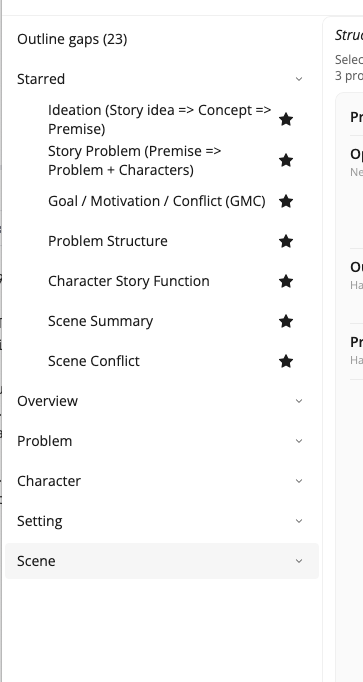
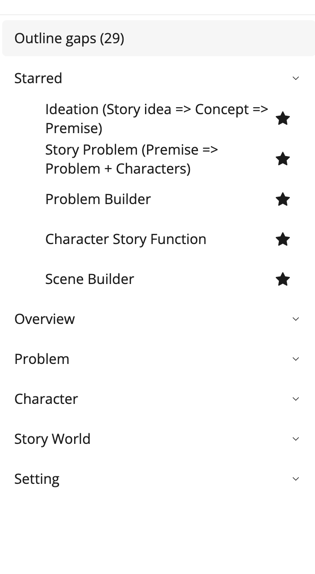
sync: update from StoryCAD dev (b7331b71ad3246fb5381d2eac51ccdabbe32ad4d)

diff --git a/docs/StoryCAD Collaborator/Tutorial/An_Example_Session.md b/docs/StoryCAD Collaborator/Tutorial/An_Example_Session.md
@@ -46,36 +46,36 @@ Return to StoryCAD and open the Overview. Anything you accepted is already there
 
 **Craft check:** Does the premise name someone who wants something, and what stands in their way? Danger Calls has both: the detectives need to know when and where Lacas will deal, and his pager network is what stops them. See [Story Idea, Concept, and Premise](../../Writing%20with%20StoryCAD/Story_Idea_Concept_and_Premise.html).
 
-## 3. GMC on a problem
+## 3. Problem Builder on a problem
 
 Danger Calls carries three problems. **How will Leonard and Tony get past Charlie's tech?** is the useful one to work on: Leonard Kraskin against Charlie Lacas, over whether the detectives can read his pager traffic before the next deal.
 
-1. Run **Goal / Motivation / Conflict (GMC)** on that problem.  
+Set **Problem Category**, **Protagonist**, and **Antagonist** on that Problem first. Problem Builder reads all three, and it stops before it starts if the category is blank.
+
+1. Run **Problem Builder** on that problem.  
 2. If Collaborator needs a character it opens a picker. Choose an existing one, or **Create a new element** if the person you want is not there yet. Cancelling the picker stops the run.  
 3. Read the label under each field name.
 
-GMC fills eight fields at once, the goal, motivation, and conflict for both sides of the problem plus its type and premise. On the sample every one of them already has text, so all eight stop and ask. That is the slow path on purpose: eight replacements at once is exactly when you want to read before accepting.
+Problem Builder takes four elements at once, which you can see on the **Selected** line: the Problem, the Overview, and both sides of the cast. It fills the problem's spine and chooses a beat sheet in the same pass, so **StructureBeats** arrives alongside Premise and ProblemType rather than in a second run.
 
-![The GMC run on that problem: eight proposals headed 8: 0 free, 8 need review, covering both the protagonist's and the antagonist's goal, motivation, and conflict](../../media/Collaborator-Session-GMC.png)
+On the sample it proposes nine updates and eight of them already have your text, so those eight stop and ask. That is the slow path on purpose: eight replacements at once is exactly when you want to read before accepting.
+
+![The Problem Builder run: nine proposals headed 9: 1 free, 8 need review, covering Description, Method, Notes, Premise, ProblemType and the StructureBeats beat sheet](../../media/Collaborator-Session-ProblemBuilder.png)
 
 4. Use **Review Each** on at least one row. Read **Yours** against **Proposed**, then Accept or Skip deliberately.  
 5. Use **Accept Free Remaining** for anything left that does not need review.
 
-## 4. Check it landed
-
-Open that Problem in StoryCAD and look at the **Antagonist** tab. Whatever you accepted for Charlie Lacas is already sitting in Goal, Motivation, and Conflict.
-
-![The Problem form in StoryCAD, Antagonist tab, showing Charlie Lacas with the accepted Goal, Motivation, and Conflict text](../../media/Collaborator-Session-Problem.png)
+Return to StoryCAD and open that Problem. Anything you accepted is already sitting in its fields, and the beat sheet is on the **Structure** tab.
 
 **Craft check:** Can you state what the protagonist wants, why, and what opposes them? Same for the antagonist? See [Defining Problems](../../Writing%20with%20StoryCAD/Defining_Problems.html).
 
-## 5. Optional next beat
+## 4. Optional next beat
 
-If you have time, run one more. **Flaw and Backstory** on Charlie Lacas is a good second look: an antagonist is easier to write when you know what made him, and the workflow proposes the wound and the history together. **Scene Conflict** on one of the story's scenes works too, and behaves differently from the Overview workflows.
+If you have time, run one more. **Flaw and Backstory** on Charlie Lacas is a good second look: an antagonist is easier to write when you know what made him, and the workflow proposes the wound and the history together. **Scene Builder** on one of the story's scenes works too, and behaves differently from the Overview workflows.
 
 One more workflow is enough for a first session.
 
-## 6. Close the loop
+## 5. Close the loop
 
 **Exit** Collaborator. Everything you accepted is already in your outline, and anything you skipped never touched it.
 

diff --git a/docs/StoryCAD Collaborator/Tutorial/A_Path_to_Try.md b/docs/StoryCAD Collaborator/Tutorial/A_Path_to_Try.md
@@ -10,13 +10,13 @@ has_toc: false
 
 # A Path to Try
 
-Collaborator has more than twenty workflows. You do not need all of them on day one. The path below matches the craft order in [Writing with StoryCAD](../../Writing%20with%20StoryCAD/Writing_with_StoryCAD.html): idea and premise first, then problem and character force, then structure and scenes.
+Collaborator has thirteen workflows. You do not need all of them on day one. The path below matches the craft order in [Writing with StoryCAD](../../Writing%20with%20StoryCAD/Writing_with_StoryCAD.html): idea and premise first, then problem and character force, then structure and scenes.
 
 You can skip steps, but this order usually wastes less time.
 
 ## The starred band is a head start
 
-Collaborator starts with seven of these workflows starred, so they sit at the top of the workflow list before you touch anything: **Premise**, **Story Problem**, **GMC**, **Problem Structure**, **Character Story Function**, **Scene Summary**, and **Scene Conflict**. That is the spine below, minus the optional steps.
+Collaborator starts with five of these workflows starred, so they sit at the top of the workflow list before you touch anything: **Premise**, **Story Problem**, **Problem Builder**, **Character Story Function**, and **Scene Builder**. That is one per stage of the spine below, so the top of the list reads as a next step rather than a catalog.
 
 Treat it as a starting point, not a rule. As you learn which workflows your writing turns on, star those and unstar the rest. [Opening Collaborator](../Opening_Collaborator.html) shows how. Everything not starred is still there, filed under its story element.
 
@@ -33,27 +33,23 @@ Treat it as a starting point, not a rule. As you learn which workflows your writ
    Turn the premise into a main problem with protagonist and antagonist shells.  
    Craft: [Defining Problems](../../Writing%20with%20StoryCAD/Defining_Problems.html)
 
-4. **Goal / Motivation / Conflict (GMC)**  
-   Opposing goals and forces on that problem.  
-   Craft: [Defining Problems](../../Writing%20with%20StoryCAD/Defining_Problems.html) (GMC)
+4. **Problem Builder**  
+   Goal, motivation, and conflict for both sides of that problem, then a beat sheet that fits it. Scenes and Problems that sit on no beat sheet yet fill its empty beats, and scene stubs fill the rest. Set Problem Category, Protagonist, and Antagonist on the Problem first: Problem Builder reads all three, and a blank category stops the run before it starts.  
+   Craft: [Defining Problems](../../Writing%20with%20StoryCAD/Defining_Problems.html) (GMC), [Plotting with StoryCAD](../../Writing%20with%20StoryCAD/Plotting_with_StoryCAD.html)
 
 5. **Inner and Outer Problems**  
    Outer want versus inner need.  
    Craft: outer and inner problems in the same Defining Problems material
 
-6. **Problem Structure**  
-   Beat sheet / shape for the story problem.  
-   Craft: [Plotting with StoryCAD](../../Writing%20with%20StoryCAD/Plotting_with_StoryCAD.html)
-
-7. **One character path**  
+6. **One character path**  
    For example **Character Story Function**, then **Flaw and Backstory**.  
    Craft: [Defining Characters](../../Writing%20with%20StoryCAD/Defining_Characters.html)
 
-8. **Scenes**  
-   Prefer **both** Scene Summary and Scene Conflict when you can. If you only run one, start with **Scene Summary** (what happens still carries conflict).  
+7. **Scene Builder**  
+   Sketch, type, cast, development, conflict, and sequel for one scene. Select the scene first: Scene Builder fills a scene you already made, and does not run on the story problem itself.  
    Craft: [Defining Scenes](../../Writing%20with%20StoryCAD/Defining_Scenes.html), [Plotting in Scenes](../../Writing%20with%20StoryCAD/Plotting_in_Scenes.html)
 
-![The workflow pane with the seven starred workflows at the top, in running order](../../media/Collaborator-Workflow-Pane.png)
+![The workflow pane with the starred workflows at the top, in running order](../../media/Collaborator-Workflow-Pane.png)
 
 ## Teaching tip
 

diff --git a/docs/StoryCAD Collaborator/Workflows_and_Writing_Craft.md b/docs/StoryCAD Collaborator/Workflows_and_Writing_Craft.md
@@ -26,9 +26,9 @@ StoryCAD’s manual already teaches the craft spine: idea and premise, problems,
 | Craft question | Learn more in StoryCAD | Typical Collaborator workflow(s) |
 |----------------|------------------------|----------------------------------|
 | What’s my idea, concept, or premise? | [Story Idea, Concept, and Premise](../Writing%20with%20StoryCAD/Story_Idea_Concept_and_Premise.html) | Premise; Story Form (genre and story type) |
-| What’s the main story problem? | [Defining Problems](../Writing%20with%20StoryCAD/Defining_Problems.html), [Problem and Character Development](../Writing%20with%20StoryCAD/Problem_and_Character_Development.html) | Story Problem; Goal / Motivation / Conflict (GMC) |
+| What’s the main story problem? | [Defining Problems](../Writing%20with%20StoryCAD/Defining_Problems.html), [Problem and Character Development](../Writing%20with%20StoryCAD/Problem_and_Character_Development.html) | Story Problem; Problem Builder |
 | Outer want vs inner need? | [Defining Problems](../Writing%20with%20StoryCAD/Defining_Problems.html) (outer and inner problems) | Inner and Outer Problems |
-| How is the story shaped? | [Plotting with StoryCAD](../Writing%20with%20StoryCAD/Plotting_with_StoryCAD.html), Overview Structure | Problem Structure |
+| How is the story shaped? | [Plotting with StoryCAD](../Writing%20with%20StoryCAD/Plotting_with_StoryCAD.html), Overview Structure | Problem Builder (it picks the beat sheet) |
 | Who is this character? | [Defining Characters](../Writing%20with%20StoryCAD/Defining_Characters.html) | Character Story Function; Flaw and Backstory; Define Character |
 | What happens in this scene? | [Defining Scenes](../Writing%20with%20StoryCAD/Defining_Scenes.html), [Plotting in Scenes](../Writing%20with%20StoryCAD/Plotting_in_Scenes.html) | Scene Builder |
 
@@ -40,7 +40,7 @@ A useful order for learning fiction structure is roughly:
 
 **Idea → Premise → Story Problem → GMC → Characters → Structure → Scenes**
 
-That is also a sensible order for Collaborator. You do not have to follow it, but jumping straight to scene work with an empty Overview usually produces thin results. Craft first, then tool.
+Collaborator walks the same order with fewer stops: Problem Builder does the GMC and Structure steps in one run, and Scene Builder does the scene work. You do not have to follow it, but jumping straight to scene work with an empty Overview usually produces thin results. Craft first, then tool.
 
 For broader craft reading beyond this manual, see [StoryBuilder Resources](https://storybuilder.org/resources/) and [Learn](https://storybuilder.org/learn/).
 
